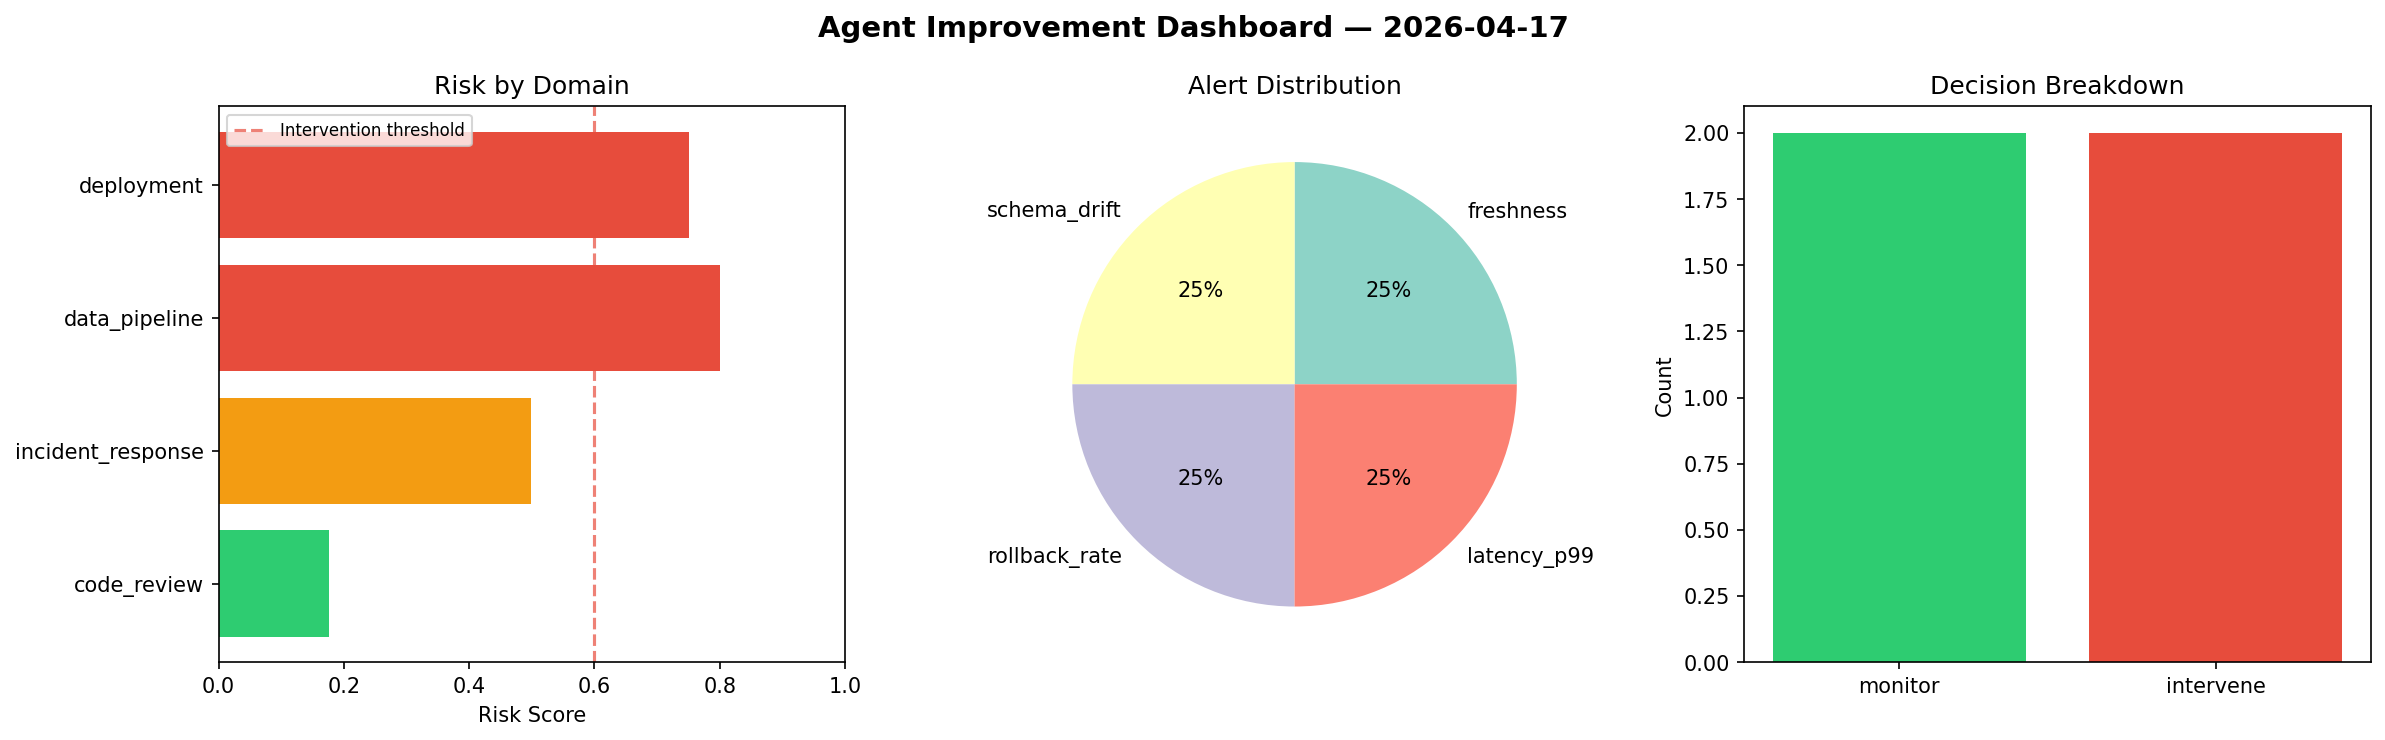
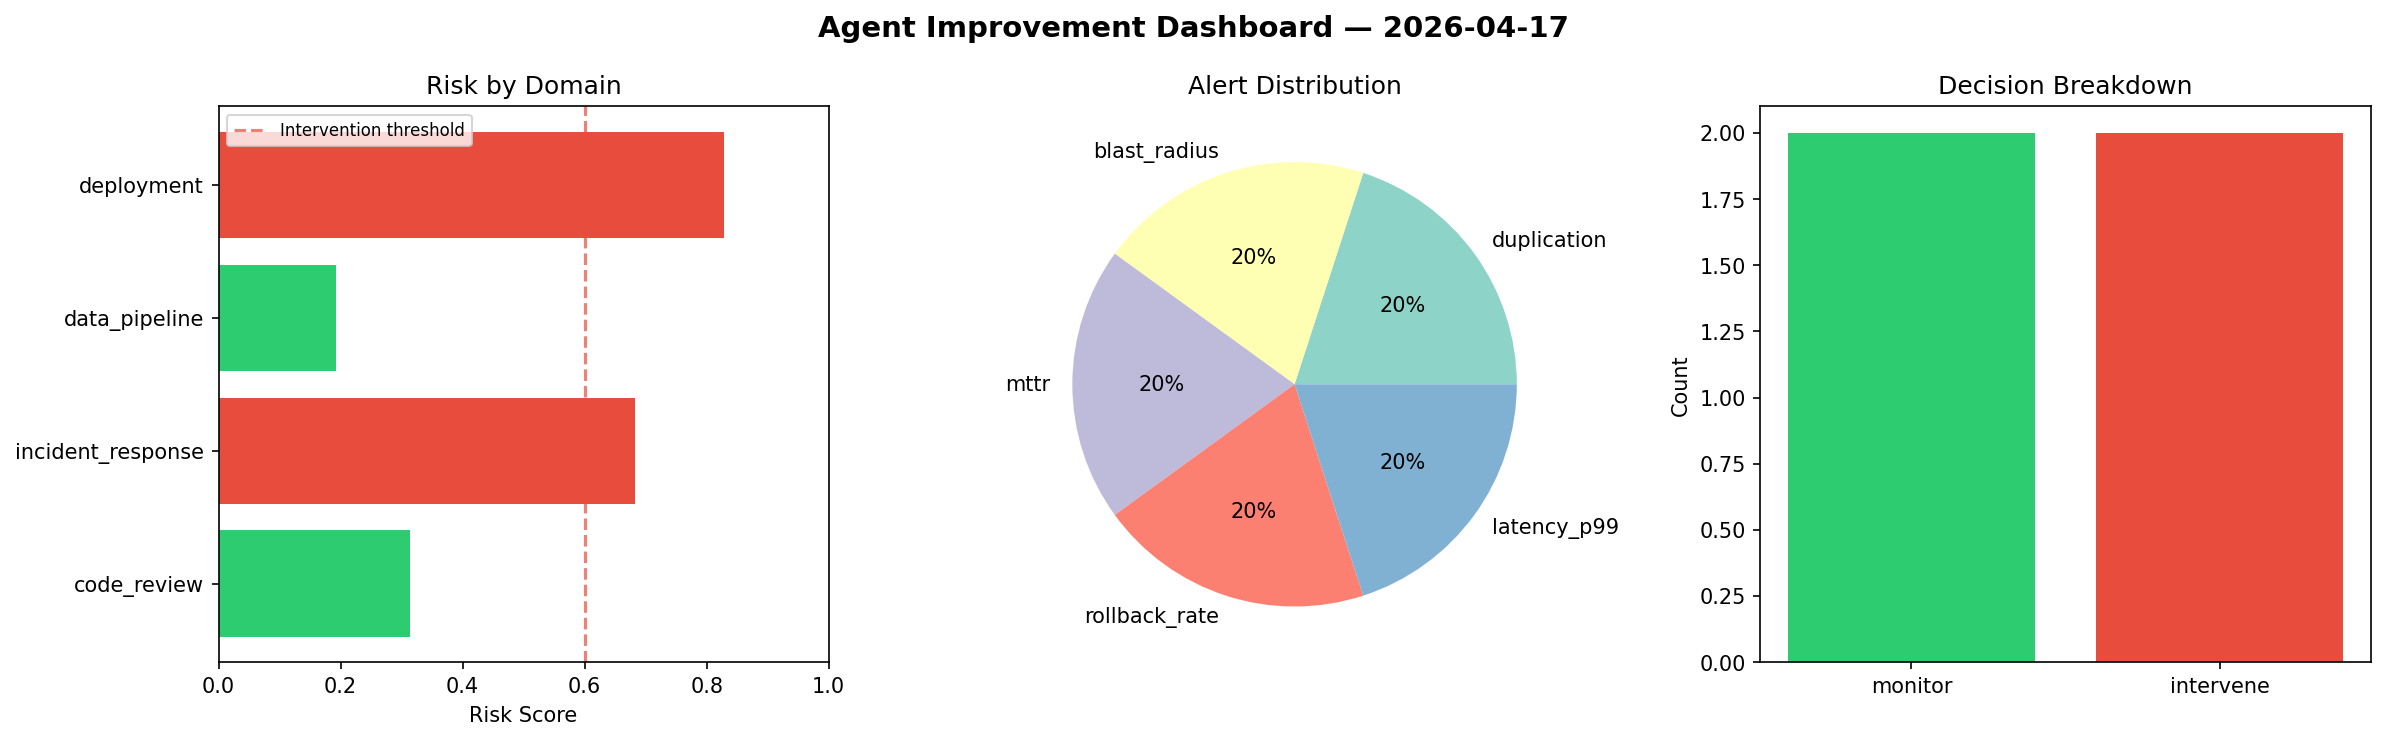
agent-improvement: daily cycle 2026-04-17T09:47

diff --git a/logs/2026-04-17.md b/logs/2026-04-17.md
@@ -1,6 +1,6 @@
 # Agent Improvement Report — 2026-04-17
 
-**Cycle ID:** `41d4148a` | **Avg Risk:** 0.5567 | **Interventions:** 2/4
+**Cycle ID:** `c2442efb` | **Avg Risk:** 0.5041 | **Interventions:** 2/4
 
 ![Dashboard](2026-04-17_dashboard.png)
 
@@ -10,18 +10,18 @@
 
 | Domain | Risk Score | Decision | Alerts |
 |--------|-----------|----------|--------|
-| code_review | 0.1762 | monitor | none |
-| incident_response | 0.4995 | monitor | none |
-| data_pipeline | 0.8002 | intervene | freshness, schema_drift |
-| deployment | 0.751 | intervene | rollback_rate, latency_p99 |
+| code_review | 0.3135 | monitor | duplication |
+| incident_response | 0.682 | intervene | blast_radius, mttr |
+| data_pipeline | 0.1923 | monitor | none |
+| deployment | 0.8285 | intervene | rollback_rate, latency_p99 |
 
 ## Delta vs Yesterday
 
 | Domain | Today | Yesterday | Change |
 |--------|-------|-----------|--------|
-| code_review | 0.1762 | 0.5584 | 📉 -68.4% |
-| incident_response | 0.4995 | 0.7084 | 📉 -29.5% |
-| data_pipeline | 0.8002 | 0.3197 | 📈 150.3% |
-| deployment | 0.751 | 0.5575 | 📈 34.7% |
+| code_review | 0.3135 | 0.5584 | 📉 -43.9% |
+| incident_response | 0.682 | 0.7084 | 📉 -3.7% |
+| data_pipeline | 0.1923 | 0.3197 | 📉 -39.8% |
+| deployment | 0.8285 | 0.5575 | 📈 48.6% |
 
 **Refinement:** `{'adjustment': 'tighten_thresholds', 'trend': 'degrading', 'window': 4}`
